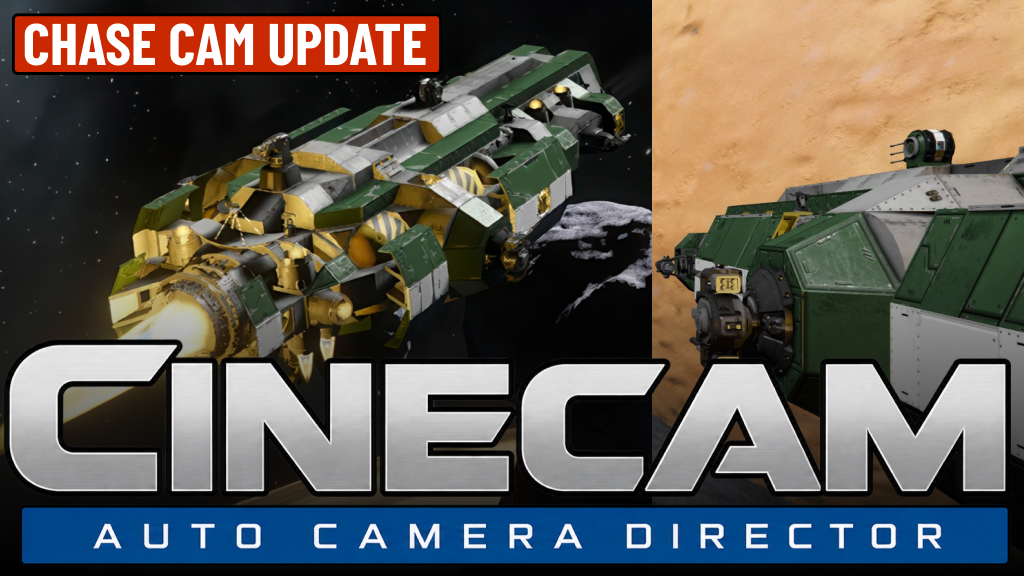
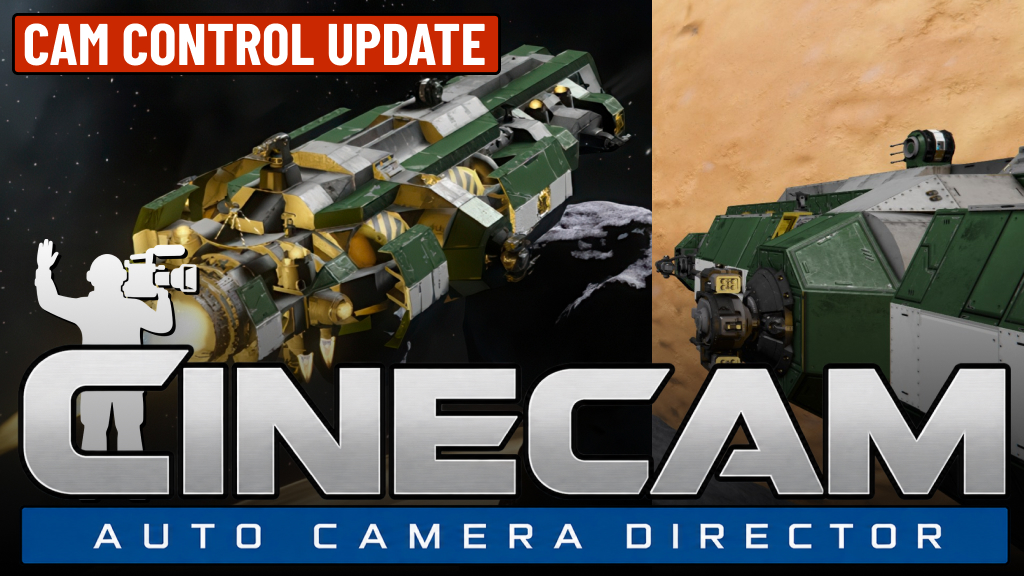
Release CineCam 1.1.0 with updated docs and artwork

diff --git a/README.md b/README.md
@@ -3,32 +3,41 @@
 [![Steam Workshop](https://img.shields.io/badge/Steam_Workshop-Subscribe-1b2838?logo=steam&logoColor=white)](https://steamcommunity.com/sharedfiles/filedetails/?id=3802777032)
 [![Source](https://img.shields.io/badge/GitHub-Source-181717?logo=github)](https://github.com/lutikri/SECinematicCamera)
 
+**Version 1.1.0 — Camera Control Update**
+
+![CineCam — Camera Control Update](thumb.jpg)
+
 Space Engineers has excellent ships, planets, and enormous empty spaces—but no automatic cinematic camera for simply enjoying a flight.
 
 `SECinematicCamera` is a client-side Workshop mod that tries to fill that gap. It simulates a GTA-style cinematic camera: a virtual director watches the locally controlled ship or rover, chooses a suitable shot, places the camera ahead of time, follows the action, and cuts to a new angle when the current shot has run its course.
 
 The goal is not another third-person camera glued to the center of the grid. Different shots have different rules: some lag behind the motion like a human camera operator, some are briefly mounted to the ship, and fly-bys stay fixed in the world while the ship passes through the frame.
 
+## What's new in 1.1.0
+
+- **Simpler controls:** T starts AUTO mode and cycles manual cameras once active. F9 toggles, Ctrl+F9 cycles, and V exits. B and Ctrl+B keep their vanilla behavior.
+- **Mouse control:** hold Alt to orbit tracking cameras or pan/tilt either mounted camera. Smoothed motion uses a lower default sensitivity of `0.03` and respects the game's freelook binding and mouse settings.
+- **Optional return:** `/cine return off` keeps the adjusted angle for the current shot; `/cine return on` restores the gentle return after releasing Alt.
+- **View restoration:** normal exit restores the entry first/third-person mode and third-person zoom when the same cockpit is still controlled.
+- **Smoother following:** continuous lead room, shared position/aim following, and gradual Chase heading changes reduce thrust-tap panning and abrupt reversal rotations.
+
 ## Demo
 
 https://github.com/user-attachments/assets/0fdadb40-a6a4-40ee-b30c-bb1171c5eb69
-
-
-
-
 
 ## What it does
 
 - Automatically selects the opening shot and later cuts using shot duration, recent shot history, speed, angular motion, and left/right continuity.
 - Includes a trajectory-aware Chase shot that follows velocity during slides, uses spring lag, and expands with speed and acceleration.
+- Supports low-sensitivity, smoothed Alt + mouse orbit in Chase, rear, front, side, and distant tracking shots, with an optional gentle return to the normal angle on release.
 - Uses hard cuts between cameras—there is no artificial flight from one camera position to the next.
-- Smooths position and aim *inside* a tracking shot, allowing the ship to move naturally within the frame during acceleration and rotation.
-- Keeps mounted shots short and rigid, aims them parallel to the occupied cockpit's forward axis, and adds a subtle camera-local high-speed vibration.
+- Smooths position and aim on a shared follow rig *inside* a tracking shot, allowing the ship to move within the frame without an extra pan on every thrust tap. Lead room changes continuously through a stop/reversal; Chase filters motion and limits its heading response to 30 degrees per second.
+- Keeps mounted shots short and rigid at their hull anchors, looks forward by default, and adds a subtle camera-local high-speed vibration. Alt + mouse smoothly pans/tilts the mounted camera itself; releasing Alt eases its aim back forward when camera return is enabled.
 - Places fly-by cameras in world space and lets the ship pass them instead of attaching the camera to the grid; each fly-by is capped at five seconds.
 - Uses natural gravity as camera Up on planets and the occupied cockpit/controller orientation in zero gravity.
 - Keeps ordinary tracking shots inside safe screen margins while still allowing cinematic composition and lead room.
 - Preserves ship controls while cinematic mode is active.
-- Uses a deterministic first-person fallback when cinematic mode ends, preventing stale cockpit or spectator ownership after seat changes and world unload.
+- Restores the first- or third-person view and third-person zoom used before activation when the same cockpit is still controlled; seat changes and world unload use a safe first-person fallback, and camera takeovers are respected.
 
 The current shot set includes:
 
@@ -55,17 +64,33 @@ The current shot set includes:
 
 ## Controls
 
+![CineCam chat commands and keyboard shortcuts](docs/media/cinecam-chat-commands.png)
+
 | Input | Action |
 | --- | --- |
-| `F9` or `B` | Toggle cinematic mode |
-| `V` while cinematic is active | Exit cinematic mode and return to the normal ship camera without leaving the cockpit |
-| `Ctrl+F9` or `Ctrl+B` | Cut to the next manual test camera and disable automatic selection |
+| `T` | Enable automatic cinematic mode; while active, hard-cut to the next manual camera |
+| `F9` | Toggle cinematic mode |
+| `V` while cinematic is active | Exit and restore the saved first- or third-person ship view without leaving the cockpit |
+| `Ctrl+F9` while cinematic is active | Cut to the next manual camera and disable automatic selection |
+| Hold `Alt` + move mouse in a supported tracking shot | Orbit around the ship; release to ease back, or keep the angle with `/cine return off` |
+| Hold `Alt` + move mouse in either mounted shot | Pan/tilt from the fixed hull mount; release to ease back forward, or keep the angle with `/cine return off` |
 | `/cine` | Toggle cinematic mode |
 | `/cine on` / `/cine off` | Explicitly enable or disable cinematic mode |
 | `/cine next` | Force the director to choose another suitable shot |
 | `/cine auto on` / `/cine auto off` | Enable or disable automatic shot changes |
+| `/cine return on` / `/cine return off` | Enable smooth return after releasing Alt (default), or retain the adjusted angle for the current shot |
 
-Manual camera selection:
+### Mouse control and return
+
+Hold the native freelook binding (normally Alt) and move the mouse. Chase, rear, front, side, and distant tracking shots orbit around the ship. Both mounted shots pan/tilt in their own local frame while their positions stay attached to the hull. Fly-by and overhead shots keep their existing camera behavior. Mouse sensitivity and X/Y inversion follow the game's settings, with additional smoothing and a turn-speed limit.
+
+Return is **ON by default**: release Alt to ease back to the shot's normal angle. Run `/cine return off` to keep your adjusted angle for the current shot. Run `/cine return on` to resume returning, including when an angle is already retained. Turning return OFF during a return keeps the current angle.
+
+Automatic shot timing pauses while you adjust the view and during return, then resumes in AUTO mode. With return OFF, timing resumes once mouse motion settles. Camera changes remain hard cuts and reset the adjusted angle. Tracking elevation stays away from the pole; mounted pitch is limited to ±65 degrees. These angle limits do not add collision avoidance.
+
+The return preference survives cinematic OFF/ON within the current session. `/cine reset` restores return ON; world reloads reset runtime settings.
+
+### Manual camera selection
 
 ```text
 /cine cam rear
@@ -81,7 +106,7 @@ Manual camera selection:
 /cine cam 1
 ```
 
-Runtime tuning:
+### Runtime tuning
 
 ```text
 /cine set duration 10
@@ -90,19 +115,24 @@ Runtime tuning:
 /cine set side 1.1
 /cine set smoothing 0.16
 /cine set lookahead 0.05
+/cine set orbitsensitivity 0.03
 ```
 
 `distance` is relative to the vehicle size; `height` and `side` are ratios of that distance. Runtime tuning is not persisted yet. Use `/cine get` to view current values and `/cine reset` to restore the compiled defaults.
 
+`orbitsensitivity` is an additional multiplier in degrees per mouse unit, adjustable from `0.005` to `0.5`; the default is `0.03`. Lower values make tracking orbit and mounted aiming less sensitive. `/cine get` also shows whether camera return is ON or OFF.
+
 Other commands: `/cine status`, `/cine get`, `/cine reset`, `/cine debug on|off`, and `/cine help`. Handled `/cine` commands stay local and are not sent to chat or the server. Mod feedback uses temporary HUD notifications instead of chat messages.
 
-Manual mode lasts only until cinematic mode is switched off. Every fresh `F9`, `B`, or `/cine on` activation starts clearly in `AUTO` mode with a motion-weighted opening shot; consecutive activations do not reuse the same opening shot. `B` and `Ctrl+B` overlap vanilla build/blueprint bindings, so those controls are temporarily suppressed while handled by CineCam and restored on every shutdown path. Exiting cinematic mode always selects the currently controlled entity's first-person camera; the normal `V` key can then switch views as usual.
+Tap `T` to start in `AUTO`, tap `T` again to enter/cycle manual cameras, and press `V` to leave. Manual mode lasts only until cinematic mode is switched off. Every fresh `T`, `F9`, or `/cine on` activation starts in `AUTO` with a motion-weighted opening shot; consecutive activations do not reuse the same opening shot. Hotkeys are reserved only while controlling a valid ship or rover with building mode, chat, and menus closed. `V` is reserved while cinematic mode is active, preventing a second vanilla view toggle on exit. `Ctrl+F9` does nothing while cinematic mode is off; modified `T` is not a CineCam shortcut. `B` and `Ctrl+B` retain their vanilla behavior.
+
+Normal exit restores the saved first/third-person mode and third-person zoom when the same entity is still controlled. A seat change never restores the old cockpit; the current controlled entity receives a safe first-person view if CineCam still owns the camera. If another system takes the camera, CineCam stops without reclaiming it. The normal `V` key can switch views again after exit.
 
 ## Installation for players
 
 1. [Subscribe on Steam Workshop](https://steamcommunity.com/sharedfiles/filedetails/?id=3802777032).
 2. Add **CineCam — Automatic Camera Director** to the world's mod list.
-3. Load the world, occupy a ship or rover controller, and press `F9` or `B`.
+3. Load the world, occupy a ship or rover controller, and press `T` or `F9`.
 
 To install a development build instead, build the project locally or copy a packaged mod into:
 
@@ -110,7 +140,7 @@ To install a development build instead, build the project locally or copy a pack
 %APPDATA%\SpaceEngineers\Mods\SECinematicCamera
 ```
 
-The local development version appears in the mod list as `SECinematicCamera`.
+The local development version appears in the mod list as `SECinematicCamera`. The repository includes `metadata.mod` and `thumb.jpg`, which are deployed with the mod.
 
 ## Building from source
 
@@ -130,7 +160,7 @@ Build and deploy from the repository root:
 dotnet build .\SECinematicCamera.sln -c Release
 ```
 
-MDK2 resolves references from the installed client, runs the ModAPI whitelist analyzer, compiles the mod, and deploys it locally. On the development machine used to bootstrap this project, the resulting path is:
+MDK2 resolves references from the installed client, runs the ModAPI whitelist analyzer, compiles the mod, and deploys it locally with its version metadata and thumbnail. Keep the project `Version`, `metadata.mod` `ModVersion`, and the README release version in sync. On the development machine used to bootstrap this project, the resulting path is:
 
 ```text
 C:\Users\artyo\AppData\Roaming\SpaceEngineers\Mods\SECinematicCamera
@@ -163,6 +193,7 @@ Space Engineers camera-controller and spectator access is deliberately isolated 
 - [x] Tracking, mounted, overhead, distant, and world-locked fly-by cameras
 - [x] Per-shot following, aim smoothing, acceleration response, and shake
 - [x] Manual camera selection and runtime tuning commands
+- [x] Smoothed tracking orbit and mounted pan/tilt with configurable return
 - [x] Gravity-relative planetary framing and cockpit-relative zero-G framing
 - [x] MDK2 build, whitelist analysis, and local deployment
 - [x] Steam Workshop release
@@ -195,3 +226,5 @@ Roadmap items are intentions, not promises; Space Engineers ModAPI limitations m
 - In-game validation is required after Space Engineers client updates.
 
 For structured testing, see the [in-game checklist](docs/INGAME_TEST_CHECKLIST.md). The installed-client API investigation is documented in [camera collision research](docs/CAMERA_COLLISION_RESEARCH.md).
+
+Paste-ready release history is available in [Workshop change notes](docs/WORKSHOP_CHANGE_NOTES.txt).

diff --git a/docs/INGAME_TEST_CHECKLIST.md b/docs/INGAME_TEST_CHECKLIST.md
@@ -9,7 +9,7 @@ Record failures with the test number, what happened, the expected result, and th
 - [ ] Add `SECinematicCamera` to the test world's active mod list.
 - [ ] Load the world without a mod compile error or crash.
 - [ ] Confirm there are no `SECinematicCamera` script errors in `SpaceEngineers.log`.
-- [ ] While on foot in first or third person, press F9. Expected: cinematic mode does not start, vanilla spectator/free camera is immediately cancelled, the character ends in first person, and a concise message says to control a ship or rover first.
+- [ ] While on foot, press T and F9. Expected: CineCam does not start or reserve vanilla controls; F9 retains normal spectator behavior when available.
 - [ ] Enter a cockpit or remote control attached to a valid grid.
 - [ ] Run `/cine status`. Expected: `OFF | next start: AUTO`.
 - [ ] Run `/cine get`. Expected: the compiled runtime settings are shown.
@@ -21,13 +21,15 @@ Record failures with the test number, what happened, the expected result, and th
 - [ ] While cinematic mode is active, steer, accelerate, brake, roll, and use normal ship/rover controls. Expected: the vehicle remains fully controllable.
 - [ ] Confirm the camera follows smoothly while staying in the selected opening shot.
 - [ ] Press F9 again. Expected: cinematic mode turns OFF and restores first-person cockpit view.
-- [ ] Press B to enter and exit cinematic mode. Expected: it behaves like F9 and does not also trigger the vanilla build-placement action.
-- [ ] Repeat from third-person view. Expected: F9 exit deliberately falls back to first-person cockpit view.
-- [ ] After that first-person fallback, press V twice. Expected: the same controlled cockpit cleanly changes first → third → first; it must not remain in SpectatorFixed or jump to another cockpit.
-- [ ] Activate from first person and press V. Expected: cinematic mode exits to the current controlled entity's first-person camera, not SpectatorFixed.
-- [ ] Repeat from third person and press V. Expected: first-person fallback is active and subsequent V presses behave normally.
+- [ ] Press T while OFF. Expected: AUTO starts and the hint shows T for manual cameras and V to exit. Press T again several times: each tap hard-cuts to the next manual profile, switches to MANUAL, and never cycles into OFF.
+- [ ] Repeat from third-person view at two different zoom distances. Expected: F9 exit restores third-person view and the entry zoom distance.
+- [ ] After exit, press V twice. Expected: the same controlled cockpit switches first/third normally; it must not remain in SpectatorFixed or jump to another cockpit.
+- [ ] Activate from first person and press V. Expected: cinematic mode exits to the same first-person cockpit view without an additional vanilla V toggle.
+- [ ] Repeat from third person and press V. Expected: the saved third-person mode and zoom are restored; subsequent V presses behave normally.
 - [ ] While active, press Ctrl+F9 repeatedly. Expected: each press hard-cuts to the next manual profile and automatic selection turns OFF; no Blueprint screen opens.
-- [ ] Repeat with Ctrl+B. Expected: it cycles manual profiles without creating a blueprint; after CineCam exits, the vanilla B/Ctrl+B controls work normally again.
+- [ ] Press Ctrl+F9 while OFF: CineCam stays OFF. Press Ctrl+T, Alt+T, and Shift+T: no CineCam action. Confirm B/Ctrl+B retain vanilla behavior.
+- [ ] Open cockpit building mode and press T: vanilla orientation reset works and CineCam does not activate/cycle. Repeat with chat, inventory, terminal, and menus open: no CineCam hotkey is handled. Close them and confirm T/F9 work again.
+- [ ] With spectators enabled, enter and exit using F9 from both view modes, including rapid toggles. Expected: vanilla static spectator does not override CineCam or the restored cockpit camera.
 - [ ] If a saved world loads into spectator while a cockpit is still controlled, expected: startup recovery immediately selects that cockpit in first person.
 - [ ] Toggle ON/OFF rapidly several times. Expected: no stuck camera, repeated exception, or loss of vehicle control.
 
@@ -44,7 +46,7 @@ Record failures with the test number, what happened, the expected result, and th
 - [ ] Combine translation, mouse/gyro, and roll controls for at least 15 seconds. Expected: no accumulating camera offset or rotation.
 - [ ] Accelerate from 0 to maximum speed in a straight line. Expected: the camera does not spring behind and the ship remains framed near its intended screen position.
 - [ ] Release thrust at maximum speed and decelerate. Expected: there is no large catch-up movement from the camera.
-- [ ] Turn cinematic mode OFF. Expected: the current controlled entity owns a first-person camera and spectator movement no longer affects it.
+- [ ] Turn cinematic mode OFF. Expected: the current controlled entity has its saved first/third-person mode and spectator movement no longer affects it.
 
 ## 4. Chat command handling
 
@@ -116,7 +118,7 @@ Test these while stationary, moving forward, reversing, and turning:
 - [ ] Accelerate sharply. Expected: the vehicle moves forward in frame before the spring catches up, and camera distance briefly increases with acceleration.
 - [ ] Compare low and high constant speeds. Expected: Chase runs farther from the vehicle at higher speed.
 - [ ] Turn sharply at speed. Expected: the camera initially preserves its old world-space trajectory, then smoothly settles behind the new trajectory instead of snapping behind grid Forward.
-- [ ] Fly with strong lateral slip. Expected: Chase follows velocity direction progressively above roughly 2 m/s and is primarily trajectory-aligned by roughly 22 m/s.
+- [ ] Fly with strong lateral slip. Expected: Chase follows velocity direction progressively above roughly 4 m/s and is primarily trajectory-aligned by roughly 30 m/s, with heading changes limited to 30 degrees per second.
 - [ ] For Chase Rear, confirm the view remains nearly centered behind the trajectory with only a subtle lateral drift.
 - [ ] For Chase Offset, remain in the shot long enough to see a continuous rear-left/center/rear-right wander with no internal cut.
 - [ ] Roll rapidly on a planet. Expected: the horizon carries about 30% of vehicle roll instead of matching it fully.
@@ -153,6 +155,30 @@ Test these while stationary, moving forward, reversing, and turning:
 - [ ] Select `/cine cam distant`. Expected: an extremely wide view about five times farther than before makes the ship very small against the world, permits broad movement within frame, barely reacts to brief mouse turns, and has no shake.
 - [ ] Test both mounted cameras on unusually shaped grids. They intentionally do not force the whole bounding box onscreen; note any placement inside blocks for later mount-clearance tuning.
 
+### Thrust taps and reversal regression
+
+- [ ] In rear, front, side-left, side-right, overhead, distant, and Chase, tap W/A/S/D individually at low speed. Expected: ship motion remains visible, but there is no separate camera pan or jerk on every key transition. Mounted cameras intentionally remain rigid.
+- [ ] In both side shots and distant, drift forward at 0.5–3 m/s, tap S through a complete stop into reverse, then repeat in the other direction. Expected: lead room crosses center gradually without a fast aim flip or a special jump near 1 m/s.
+- [ ] In Chase, reverse through 0, 4, 12, 17, and 30 m/s with no ship rotation, then repeat with slight lateral thrust. Expected: the heading remains finite and continuous, low-speed taps do not swing the camera around, and sustained high-speed reversal produces a gradual response instead of a flip.
+- [ ] Repeat with dampeners ON and OFF, and in gravity/zero gravity. Confirm manual/automatic shot changes still hard-cut without an interpolated travel path.
+
+### Alt + mouse orbit
+
+- [ ] Select Chase, rear, front, both side shots, and distant. Hold Alt and move the mouse slowly in both axes. Expected: the camera orbits the ship with low sensitivity and eased angular motion, while keeping it framed; simply holding Alt without moving does not change the angle.
+- [ ] While holding Alt, use W/A/S/D, Space, C, and roll controls. Expected: translation and keyboard roll remain available, and mouse movement does not also yaw/pitch the ship. Release Alt and confirm normal mouse steering returns.
+- [ ] Release Alt after a small drag, a large drag, and multiple complete horizontal orbits. Expected: a gentle return by the shortest horizontal arc, without a snap or prolonged spinning. Vertical motion stays away from the pole.
+- [ ] In AUTO, orbit and hold the view longer than the shot's normal duration. Expected: automatic cuts pause while freelooking/returning and resume afterward, retaining AUTO mode. T/Ctrl+F9 and manual chat selection still hard-cut immediately and discard the previous orbit offset.
+- [ ] In both mounted shots, hold Alt and pan/tilt the mouse. Expected: smooth aim rotation from the same hull anchor, no orbit or extra positional lag, and no mouse steering of the ship. Release Alt: aim eases back parallel to cockpit Forward. Repeat while the ship translates, pitches, yaws, and rolls, in gravity and zero gravity.
+- [ ] In both mounted shots, drag far upward/downward and through a full horizontal turn. Expected: pitch stays within ±65 degrees of the mount's local frame, the camera remains attached, and return/cut/exit behavior works as in the tracking shots.
+- [ ] Try Alt + mouse in fly-by and overhead shots. Expected: their existing camera rules remain unchanged and their timers are not paused by Alt.
+- [ ] Open chat, inventory, terminal, building mode, or a menu while freelooking. Expected: mouse movement in those interfaces does not accumulate as camera input; after closing, there is no queued jump.
+- [ ] Compare slow and fast drags at low/high rendering frame rates. Expected: each mouse displacement is consumed once, fast swipes accelerate smoothly, and slow drags remain usable with game mouse sensitivity below 1.
+- [ ] Change the native freelook binding and X/Y inversion in the game's options. Expected: CineCam follows the native binding and inversion. Restore the options afterward.
+- [ ] Try `/cine set orbitsensitivity 0.015` and `0.06`, then `/cine reset`. Expected: lower/higher mouse sensitivity for tracking orbit and mounted aim, and the restored `0.03` default; values outside `0.005`–`0.5` are rejected.
+- [ ] Run `/cine return off`, adjust a tracking shot and both mounted shots, then release Alt. Expected: smoothed mouse motion finishes and the adjusted angle stays relative to that shot; AUTO timing resumes after settling. Camera cuts reset the angle, and cinematic OFF/ON preserves the return setting.
+- [ ] Run `/cine return on` while an angle is retained: it eases back. Switch return OFF during that return: it keeps the current angle without jumping. `/cine get` reports the setting; `/cine reset` restores return ON. Invalid `/cine return` arguments show usage without changing the setting or sending the command to multiplayer chat.
+- [ ] Exit with V/F9, switch seats, or trigger a camera takeover during orbit. Expected: the usual safe shutdown/view restoration applies and the next activation has no leftover orbit input.
+
 ## 10. Debug output
 
 - [ ] Run `/cine debug on`. Expected: confirmation is shown.
@@ -187,7 +213,7 @@ Perform these one at a time, re-entering cinematic mode between tests:
 
 - [ ] No game crash, repeating exception, or permanently stuck camera.
 - [ ] Vehicle controls remain active for the entire cinematic session.
-- [ ] Current controlled entity reliably receives first-person camera ownership after normal exit and safe shutdown.
+- [ ] Normal exit restores the entry first/third-person mode and zoom for the same controlled entity; safe shutdown never restores a stale cockpit or steals a camera after takeover.
 - [ ] All ten profiles work in gravity and zero gravity.
 - [ ] All shot changes are hard cuts.
 - [ ] Automatic selection is varied and obeys side continuity.
